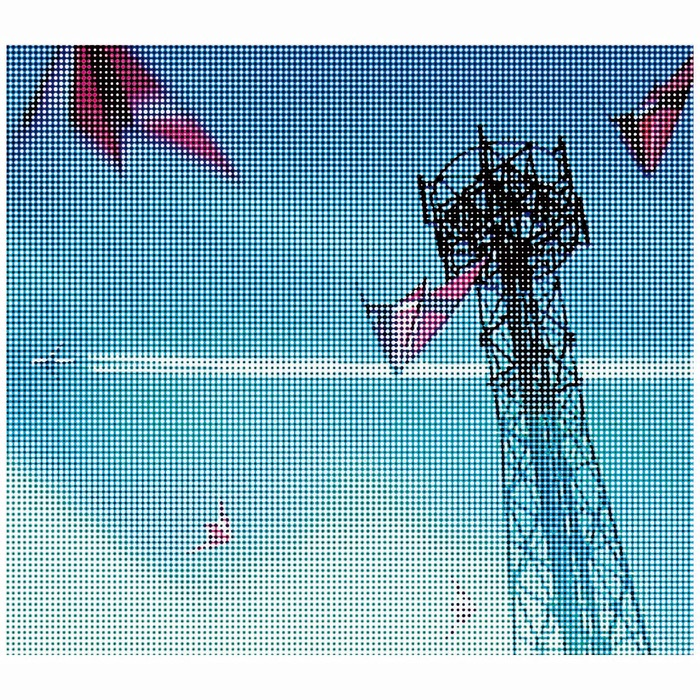
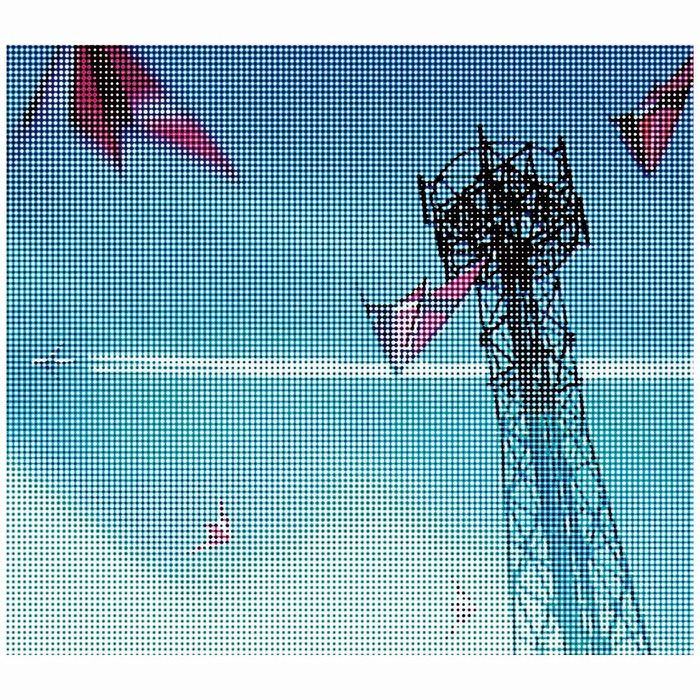
Toten Code entfernt und die Bilder neu komprimiert
Acht CSS-Klassen und eine Funktion hatten keine einzige Fundstelle mehr:
.ic-js, .ic-md, .kw-g, .num, .status-line und .status-dot samt der
dazugehoerenden Animation, der Selektor .tech-icon .devicon und isOpen().

Die JPEG waren fuer ihre Anzeigegroesse zu schwer gespeichert. Neu
komprimiert bei gleichen Abmessungen: 4,9 MB werden 3,1 MB, der Ordner
public/ faellt von 11 auf 8,9 MB. Die Vollansicht braucht die Aufloesung,
deshalb bleiben die Masse wie sie sind.

An Kopfzeilen und Ladeverhalten war nichts zu tun: CSP, HSTS, Cache-Regeln
und das verzoegerte Nachladen von Devicon stehen laengst.

diff --git a/public/css/vscode.css b/public/css/vscode.css
@@ -794,7 +794,6 @@ button.st-item:hover { background: rgba(255, 255, 255, 0.14); }
 /* Syntaxfarben aus dem aktiven Theme */
 .kw { color: var(--syn-kw); }
 .kw-b { color: var(--syn-kw2); }
-.kw-g { color: var(--ok); }
 .str { color: var(--syn-str); }
 .fn { color: var(--syn-fn); }
 .num { color: var(--syn-num); }
@@ -1351,42 +1350,6 @@ code {
    ist die Faktenleiste, dafuer mit Angaben, die tatsaechlich etwas sagen.
    ─────────────────────────────────────────────────────────────────────── */
 
-/* Statuszeile ueber dem Namen: das Erste, was jemand wissen will. */
-.status-line {
-  display: inline-flex;
-  align-items: center;
-  gap: 8px;
-  font-size: 12.5px;
-  color: var(--ok);
-  background: color-mix(in srgb, var(--ok) 12%, transparent);
-  border: 1px solid color-mix(in srgb, var(--ok) 35%, transparent);
-  border-radius: 999px;
-  padding: 4px 12px 4px 10px;
-  margin-bottom: 1.4rem;
-}
-
-.status-dot {
-  position: relative;
-  width: 7px;
-  height: 7px;
-  border-radius: 50%;
-  background: currentColor;
-  flex-shrink: 0;
-}
-
-.status-dot::after {
-  content: '';
-  position: absolute;
-  inset: -3px;
-  border-radius: 50%;
-  border: 1px solid currentColor;
-  animation: statusPulse 2.4s ease-out infinite;
-}
-
-@keyframes statusPulse {
-  0% { opacity: 0.9; transform: scale(0.6); }
-  70%, 100% { opacity: 0; transform: scale(1.7); }
-}
 
 /* Faktenleiste: drei Spalten statt vier, damit sechs Angaben sauber
    aufgehen, und Werte gross genug zum Ueberfliegen. */

diff --git a/public/css/style.css b/public/css/style.css
@@ -136,8 +136,7 @@ body{background:var(--bg);color:var(--text);font-family:var(--sans);font-size:15
 .tree-file.locked-file:hover{color:var(--muted);background:rgba(255,255,255,.03)}
 
 /* file type colors */
-.ic-js{color:#E3B341}
-.ic-sql{color:#CC2936}.ic-md{color:#8B949E}.ic-json{color:#CBCB41}
+.ic-sql{color:#CC2936}.ic-json{color:#CBCB41}
 .ic-csv{color:#3FB950}
 
 /* ═══ SCHLOSS-SYMBOL ═══
@@ -259,11 +258,9 @@ body{background:var(--bg);color:var(--text);font-family:var(--sans);font-size:15
 .cmt{color:var(--dim);font-family:var(--mono);font-size:.79rem;font-style:italic}
 .kw{color:var(--purple);font-family:var(--mono)}
 .kw-b{color:var(--blue);font-family:var(--mono)}
-.kw-g{color:var(--green);font-family:var(--mono)}
 .str{color:var(--orange);font-family:var(--mono)}
 .fn{color:#79C0FF;font-family:var(--mono)}
 .punct{color:var(--muted);font-family:var(--mono)}
-.num{color:#79C0FF;font-family:var(--mono)}
 .type{color:var(--teal);font-family:var(--mono)}
 
 /* HERO */
@@ -887,7 +884,7 @@ body.voll-offen{overflow:hidden}
 }
 
 /* ═══ DEVICON — original technology icons ═══ */
-.tech-icon i, .tech-icon .devicon{font-size:1.8rem;line-height:1}
+.tech-icon i{font-size:1.8rem;line-height:1}
 .skill-ic{font-size:1.08rem;margin-right:.5rem;vertical-align:-2px}
 .skill-ic.colored{filter:none}
 .tech-card .tech-icon{display:flex;align-items:center;justify-content:center;height:1.8rem;margin-bottom:.7rem}

diff --git a/public/js/app.js b/public/js/app.js
@@ -93,7 +93,6 @@ const overlay=$('loginOverlay');
 ═══════════════════════════════════ */
 function tabEl(name){return document.querySelector('.tab[data-panel="'+name+'"]');}
 function isLocked(name){return LOCKED.indexOf(name)!==-1;}
-function isOpen(name){const t=tabEl(name);return !!t&&!t.classList.contains('closed');}
 function openTabNames(){
   return Array.from(document.querySelectorAll('.tab:not(.closed)')).map(t=>t.dataset.panel);
 }
